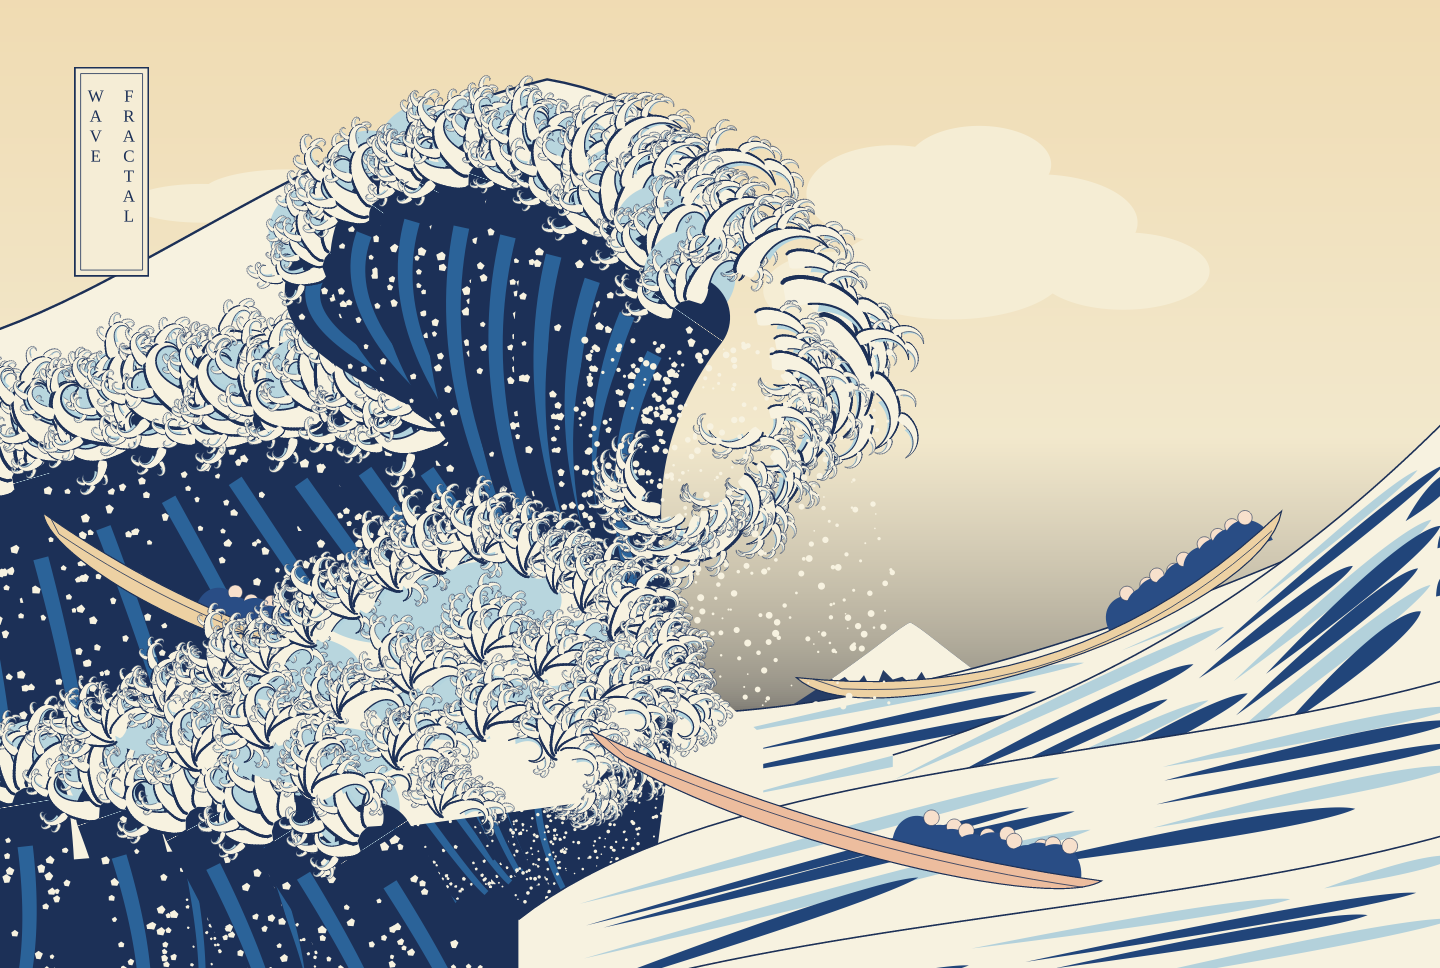
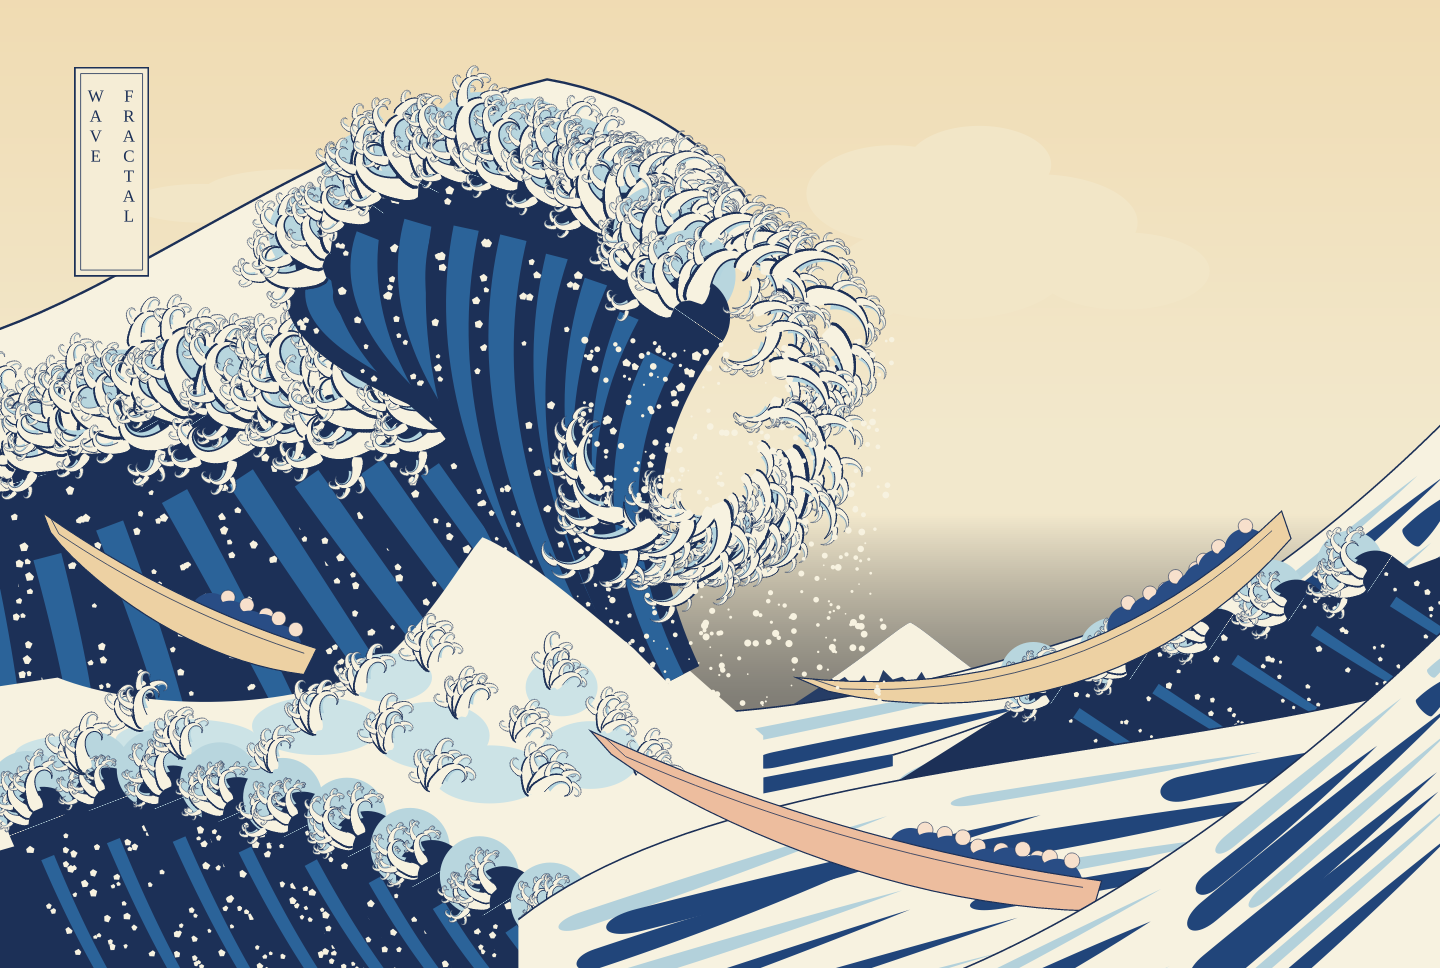
fractal_wave: closer to the print at Kpsy=0
Measured again against the Met scan: the foreground is the print's cream
mound (Fuji's echo) over a low fan of dark fingers and sparse open claws
(Kfore=0, the default at low Kpsy; Kfore=1 keeps the half-size great wave).
The lower fan stops at its measured edge, the swells carry thick flat
bands with blunt heads, the swell behind the near boat has a clawed face,
hulls have a deep belly and blunt stern, the face's mid-blue stripes are
as wide as the print's, the grey band hugs the horizon and clouds are faint.

Claude-Session: https://claude.ai/code/session_016y8NtPwQ2nG9wJYhkVXfKg

diff --git a/README.md b/README.md
@@ -18,8 +18,11 @@ children, the foreground wave is the great wave again at half size, and the
 cave holds a smaller great wave, which holds another.
 
 `Kpsy` (0 to 1, default 1) moves every colour from the print's toward a
-hue that turns with finger and recursion depth. At `-D Kpsy=0` it is the
-print's palette, with no waves in the cave:
+hue that turns with finger and recursion depth. `Kfore` (default 1 when
+`Kpsy > 0.3`) makes the foreground the great wave at half size; at 0 it is the
+print's own foreground, a plain cream mound echoing Fuji over a low fan of
+dark fingers and sparse open claws. At `-D Kpsy=0` it is the print's palette
+and foreground, with no waves in the cave:
 
 ![fractal_wave at Kpsy=0](gallery/previews/fractal_wave-print.png)
 
